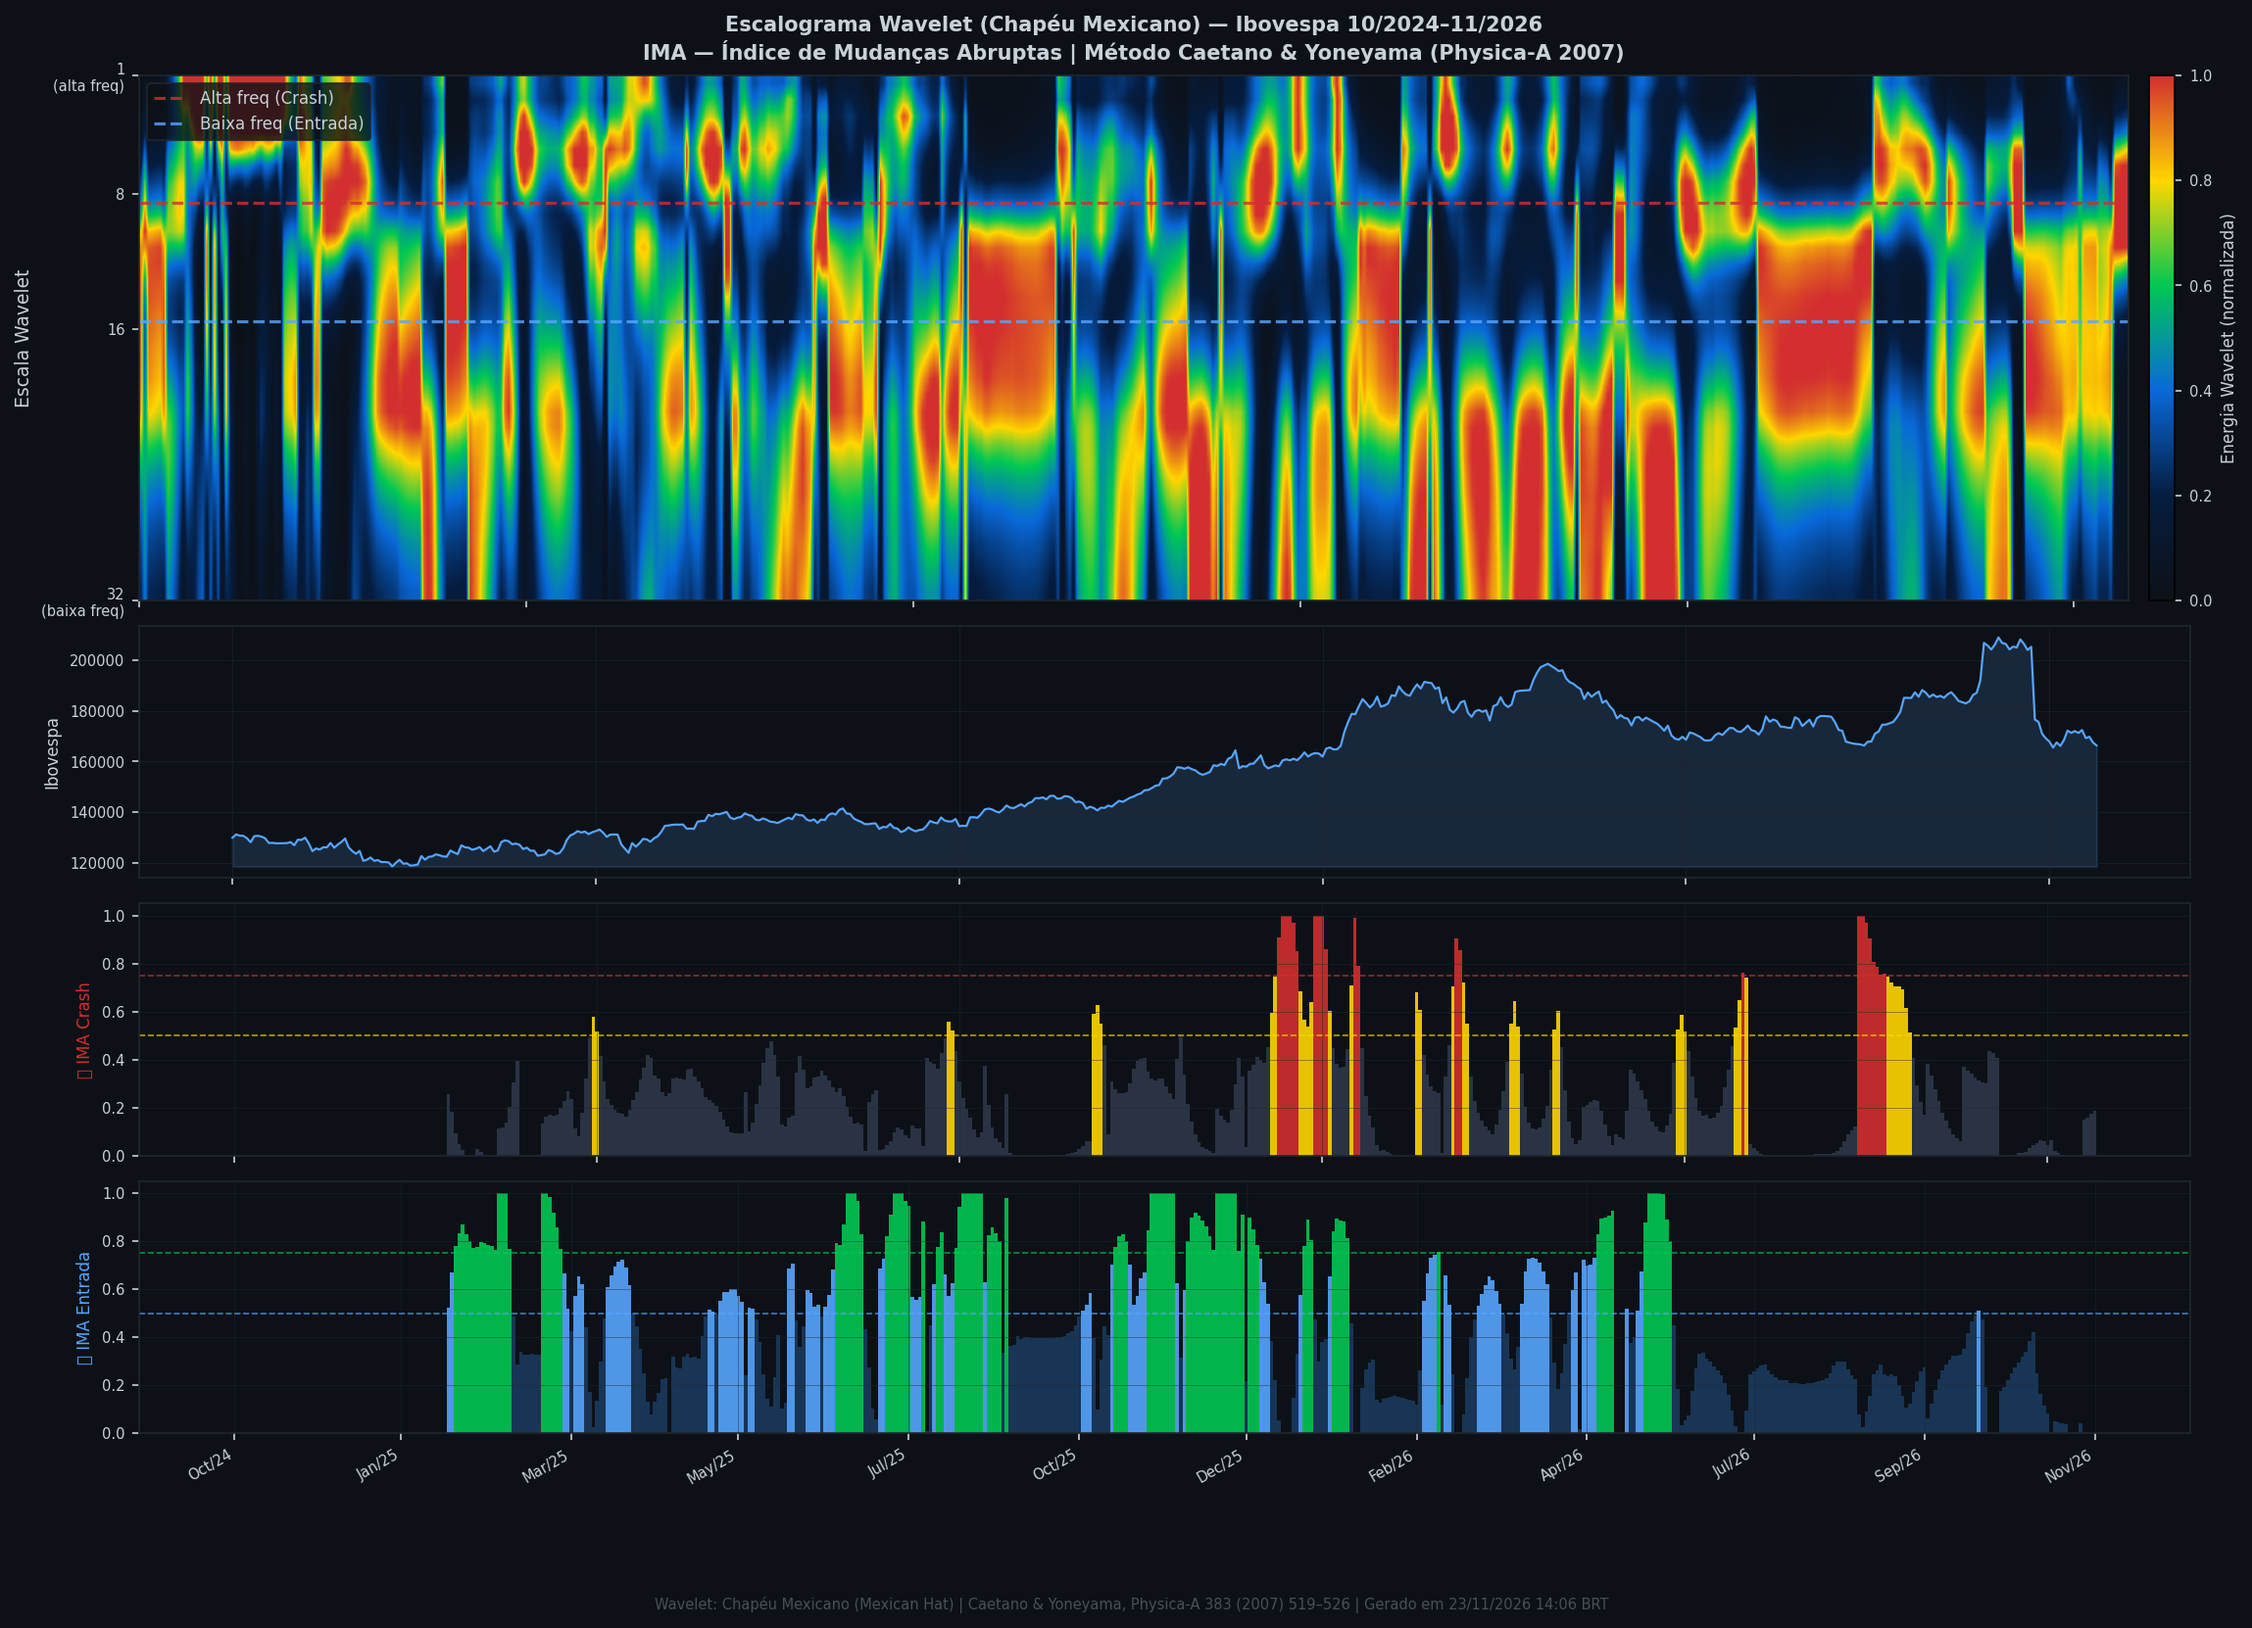
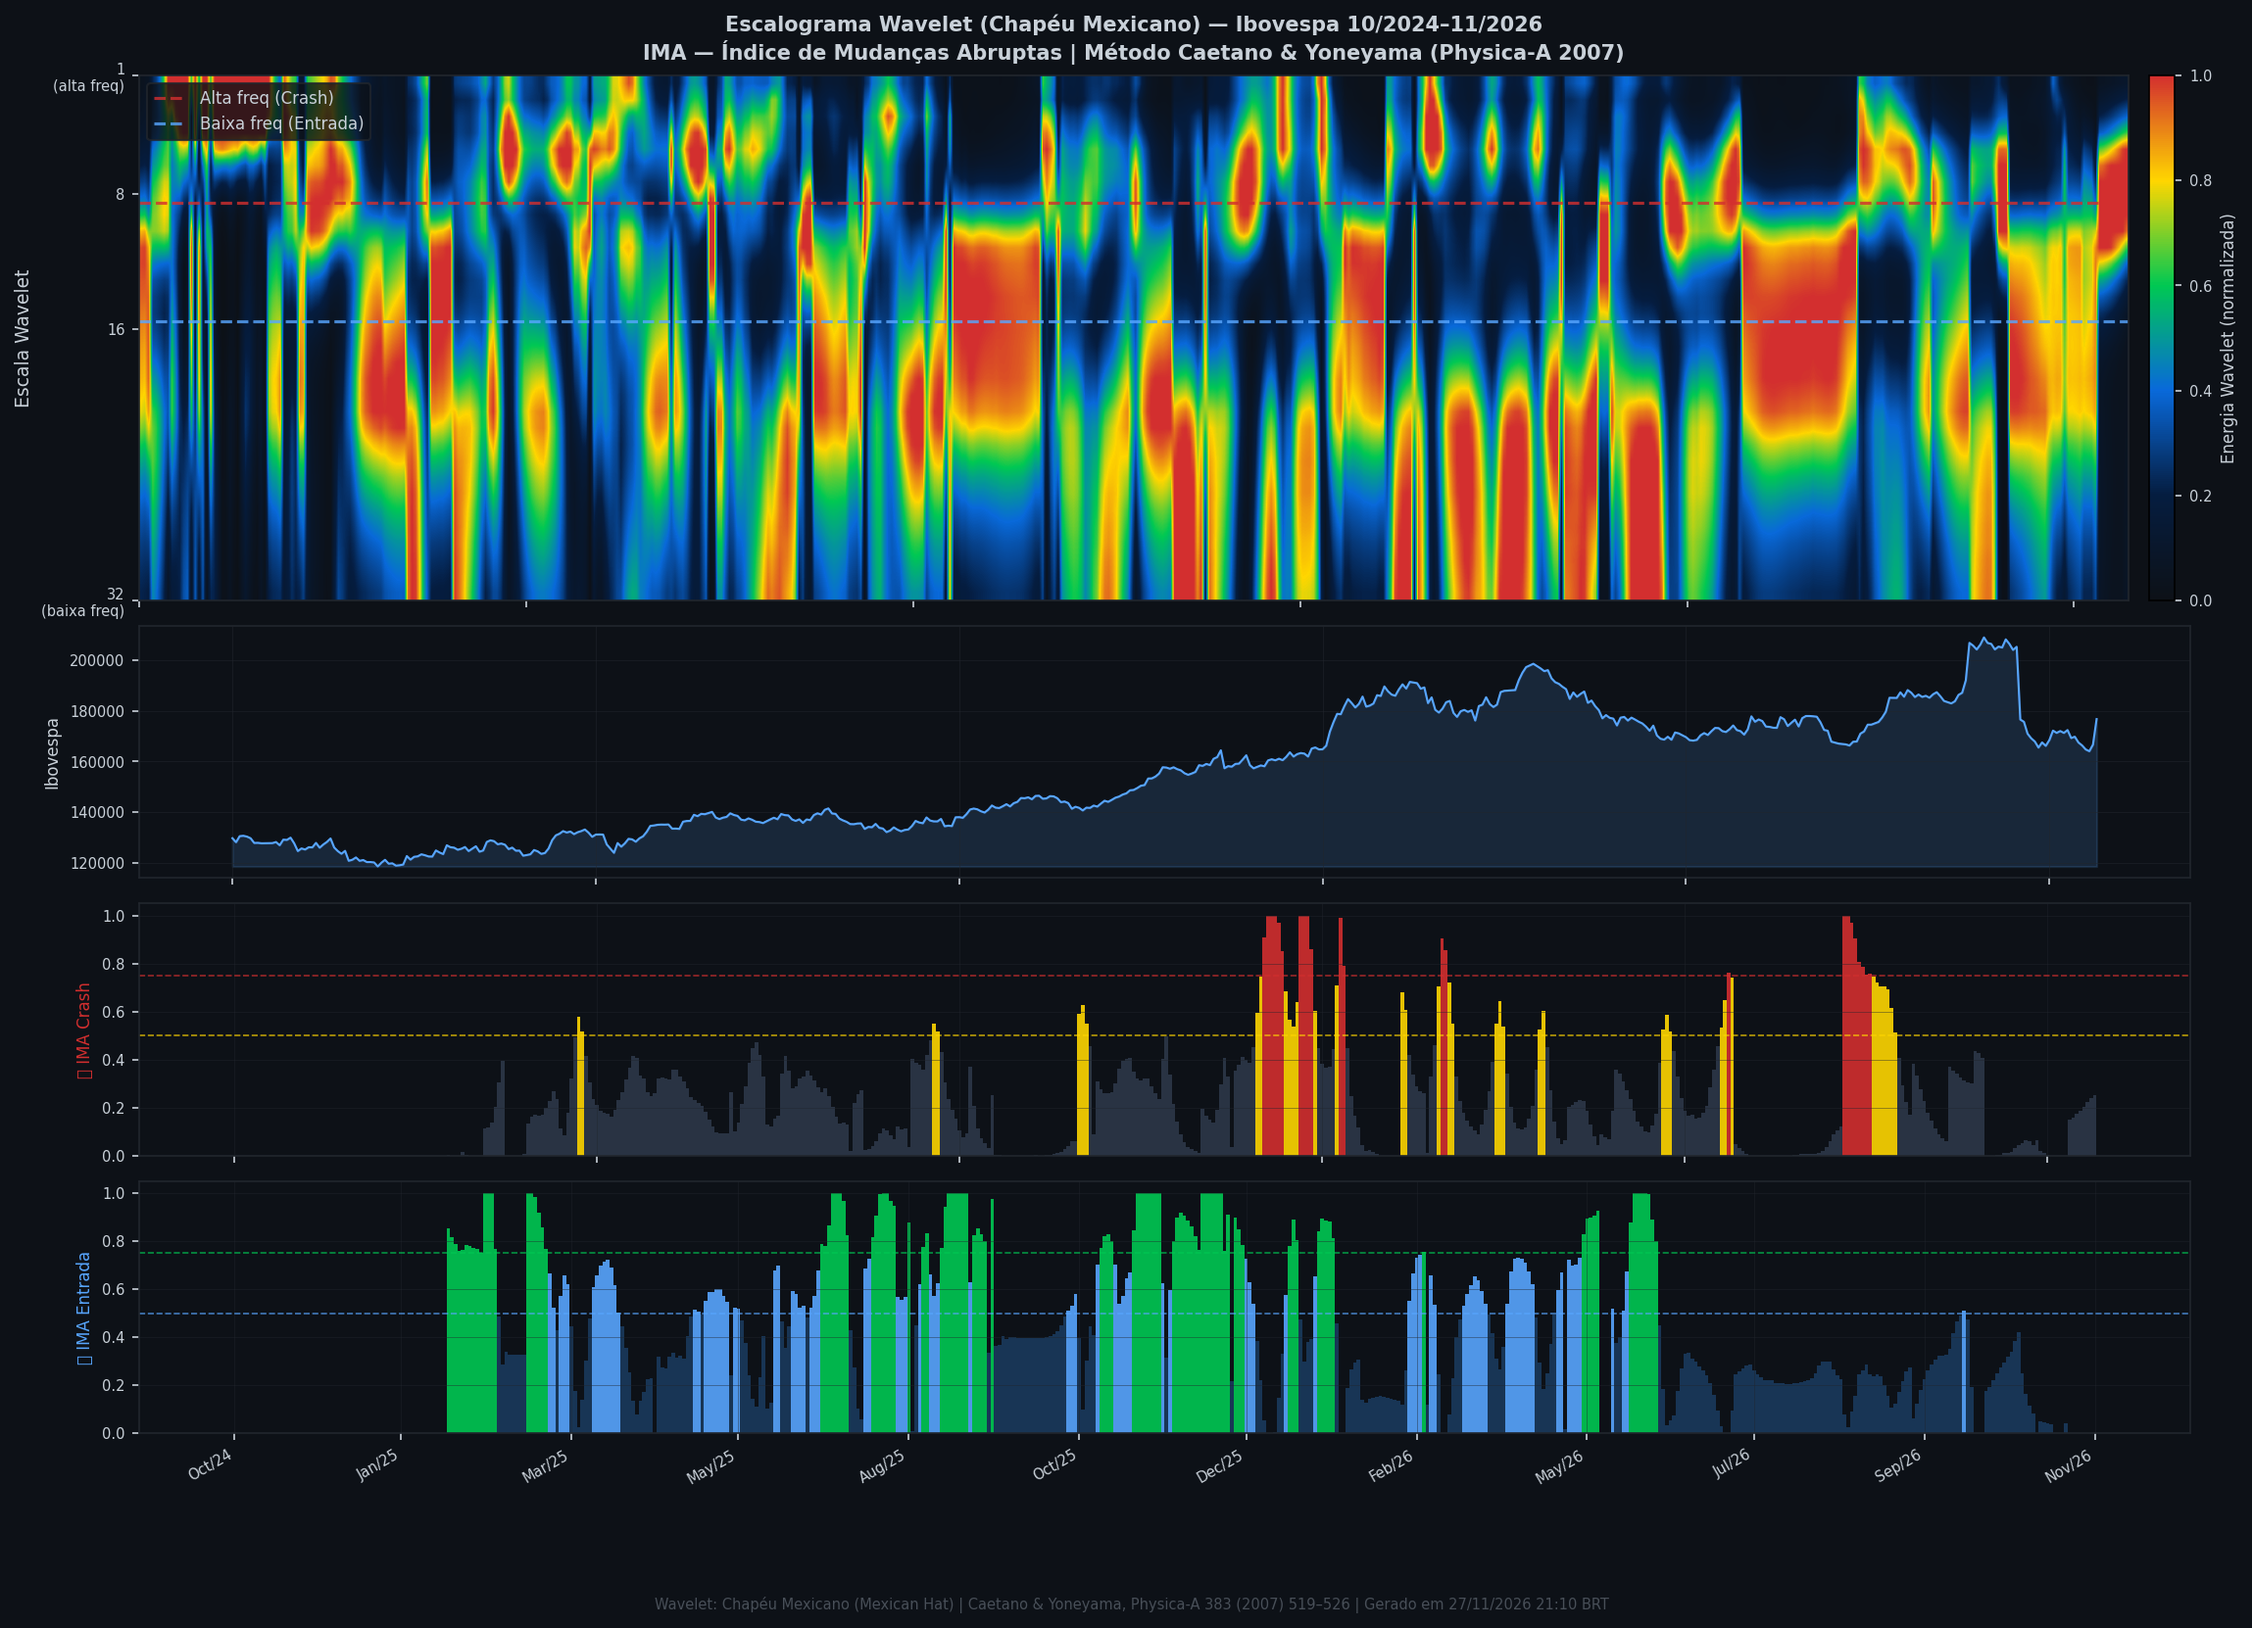
🤖 Auto: Sinal 27/11/2026 21:10

diff --git a/content/espectro/index.md b/content/espectro/index.md
@@ -1,12 +1,12 @@
 ---
 title: "🌊 Espectro wavelet"
-date: 2026-11-23
-pregao: 2026-11-23 13:15
+date: 2026-11-27
+pregao: 2026-11-27
 description: "Em que frequências o Ibovespa está vibrando — escalograma de 504 pregões, com 1929 como régua de comparação"
 tags: [espectro]
 ---
 
-*Figura de **23/11/2026 às 14:06** · página refeita em 23/11/2026 14:06.*
+*Figura de **27/11/2026 às 21:10** · página refeita em 27/11/2026 21:10.*
 
 > [!info] Esta página é **semanal**, não diária
 > O espectro é recalculado **toda segunda-feira às 17h BRT** e só então esta página muda. As frequências do mercado se movem devagar: refazer isso todo dia gastaria máquina para mostrar a mesma figura. Todos os horários de atualização do site estão em [horários](../horarios/).
@@ -19,14 +19,12 @@ Serve para uma pergunta que o preço não responde: **em que escala o mercado es
 
 ![Espectro wavelet do Ibovespa, 504 pregões](../graficos/espectro_wavelet.png)
 
-<small>Escalograma por transformada wavelet contínua (wavelet Chapéu Mexicano) sobre 504 pregões do ^BVSP, com o IMA Crash e o IMA Entrada calculados na mesma série. Gerado em 23/11/2026 às 14:06 pelo `gerar_espectro_wavelet.py`.</small>
+<small>Escalograma por transformada wavelet contínua (wavelet Chapéu Mexicano) sobre 504 pregões do ^BVSP, com o IMA Crash e o IMA Entrada calculados na mesma série. Gerado em 27/11/2026 às 21:10 pelo `gerar_espectro_wavelet.py`.</small>
 
-> [!note] O sinal em 23/11/2026 13:15 BRT
-> **⚪ Neutro** · zona **VERDE** · risco **0,000** (amarelo em 0,60 · vermelho em 0,90)
+> [!note] O sinal em 27/11/2026
+> **🌱 Fundo se desfazendo** · zona **VERDE** · risco **0,008** (amarelo em 0,60 · vermelho em 0,90)
 > 
-> sem diferença estatística em relação a um dia qualquer.
-> 
-> No diário de 19/11/2026: **🌱 Fundo se desfazendo** — só contexto: o pânico passou; sem vantagem estatística confirmada para comprar só por isso.
+> só contexto: o pânico passou; sem vantagem estatística confirmada para comprar só por isso.
 
 <small>O risco acima é a componente **IMA** (peso 1,0). A componente **LPPL** está com peso 0,0 no momento, isto é, desligada — o número não contém ajuste log-periódico. Isso é medição, não opinião: está escrito no próprio arquivo do sinal.</small>
 

diff --git a/content/integridade/index.md b/content/integridade/index.md
@@ -6,7 +6,7 @@ description: "O que foi conferido, contra qual fonte e quando — medido na hora
 tags: [integridade]
 ---
 
-*Pregão conferido: **26/11/2026**, com 61 tabelas no acervo · página gerada em 27/11/2026 19:07*
+*Pregão conferido: **26/11/2026**, com 61 tabelas no acervo · página gerada em 27/11/2026 21:10*
 
 O pregão conferido é o último **fechado e arquivado inteiro**, não o de hoje: enquanto o dia corre, só algumas tabelas estão gravadas, e conferir um dia pela metade produziria alarme falso.
 
@@ -23,7 +23,7 @@ Esta página não declara que o site está correto. Ela **mede** e escreve o res
 | Tabelas com conteúdo fora da curva | nenhuma |
 | Páginas publicadas | 375 |
 | Conferências cruzadas das páginas | 71 certas, nenhuma divergência |
-| Página escrita mais recentemente | 27/11 19:07 |
+| Página escrita mais recentemente | 27/11 21:10 |
 | Páginas sem data no cabeçalho | 9 — cegas para a conferência de dado |
 
 ## 1 · Acervo do boletim diário
@@ -127,10 +127,9 @@ Pregão mais recente declarado por alguma página: **27/11/2026**.
 | página | escrita em | dias parada |
 |---|---|---:|
 | `por-onde-comecar.md` | 16/11 15:20 | 11.2 |
-| `autopsias/index.md` | 19/11 14:39 | 8.2 |
-| `ofertas.md` | 21/11 07:15 | 6.5 |
-| `espectro/grandes-tombos.md` | 22/11 17:30 | 5.1 |
-| `espectro/index.md` | 23/11 14:06 | 4.2 |
+| `autopsias/index.md` | 19/11 14:39 | 8.3 |
+| `ofertas.md` | 21/11 07:15 | 6.6 |
+| `espectro/grandes-tombos.md` | 22/11 17:30 | 5.2 |
 
 ### Página declarando data sem pregão
 
@@ -157,7 +156,7 @@ Outras **6** estão **dispensadas** de declarar `pregao:` por não se referirem 
 
 Cada página do safecluster é conferida contra as operações do motor. Isso não basta: em 17/11/2026 a página de operações mostrava o pregão do dia e o extrato da carteira parava no dia anterior — **as duas corretas em relação à própria fonte, e contraditórias entre si**. A auditoria passou com "68 certas, 0 erradas" porque ninguém comparava as duas versões do mesmo fato. Desde 18/11/2026 ela também compara.
 
-*Última auditoria: 2026-11-26 às 20:25:53 · 71 conferências, 0 divergência(s).*
+*Última auditoria: 2026-11-27 às 20:25:45 · 71 conferências, 0 divergência(s).*
 
 Nenhuma divergência entre páginas nesta rodada.
 

diff --git a/content/espectro/aviso-2026-10-26.md b/content/espectro/aviso-2026-10-26.md
@@ -2,7 +2,7 @@
 title: "O sinal avisou antes de 26/10/2026?"
 ---
 
-*Medido em 23/11/2026 às 14:06, com a série do Ibovespa até 19/11/2026 e o ζ diário da mesma data. Nenhum número desta página foi digitado à mão.*
+*Medido em 27/11/2026 às 21:10, com a série do Ibovespa até 26/11/2026 e o ζ diário da mesma data. Nenhum número desta página foi digitado à mão.*
 
 Em **26/10/2026** o Ibovespa fechou em **176.608**, uma queda de **-14,0%** num único pregão. Esta página mostra o que o sinal de crise estava fazendo nos pregões anteriores — não para provar nada, mas porque um caso que se acabou de viver é o teste que o leitor realmente quer ver.
 
@@ -10,7 +10,7 @@ Em **26/10/2026** o Ibovespa fechou em **176.608**, uma queda de **-14,0%** num 
 
 O ζ de topo cruzou o limiar de referência (**0,75**) em **15/10/2026**, com o índice em 204.324 — **7 pregões** antes do tombo.
 
-Do topo de 09/10/2026 (209.067) até o fundo de 03/11/2026 (165.529), o movimento foi de **-20,8%**. Quando o sinal ligou, ainda faltavam **-19,0%** — ou seja, **91% do movimento ainda estava pela frente**.
+Do topo de 09/10/2026 (209.067) até o fundo de 24/11/2026 (164.090), o movimento foi de **-21,5%**. Quando o sinal ligou, ainda faltavam **-19,7%** — ou seja, **92% do movimento ainda estava pela frente**.
 
 Depois da queda, o ζ de **fundo** cruzou o mesmo limiar em **03/11/2026**, com o índice em 165.529, e chegou a **1,000**, o teto da escala, por 4 pregões.
 
@@ -64,6 +64,10 @@ Depois da queda, o ζ de **fundo** cruzou o mesmo limiar em **03/11/2026**, com 
 | 17/11/2026 | 0,000 | 0,555 | 169.817 | +0,3% |
 | 18/11/2026 | 0,000 | 0,578 | 167.538 | -1,3% |
 | 19/11/2026 | 0,000 | 0,609 | 166.376 | -0,7% |
+| 23/11/2026 | 0,000 | 0,633 | 164.796 | -0,9% |
+| 24/11/2026 | 0,000 | 0,641 | 164.090 | -0,4% |
+| 25/11/2026 | 0,000 | 0,664 | 166.685 | +1,6% |
+| 26/11/2026 | 0,000 | 0,656 | 176.800 | +6,1% |
 
 A seta **↑** marca o pregão em que o sinal de topo ligou; **←** marca o dia da queda. Valores em negrito estão acima do limiar de 0,75.
 

diff --git a/content/avisos/index.md b/content/avisos/index.md
@@ -2,7 +2,7 @@
 title: "⚠ Avisos: o que saber antes de usar os números"
 ---
 
-*Gerado em 27/11/2026 19:07*
+*Gerado em 27/11/2026 21:10*
 
 Este site publica muitos números, e cada um tem uma limitação que importa na hora de
 decidir. As limitações estão escritas nas próprias páginas, mas quem chega direto numa
